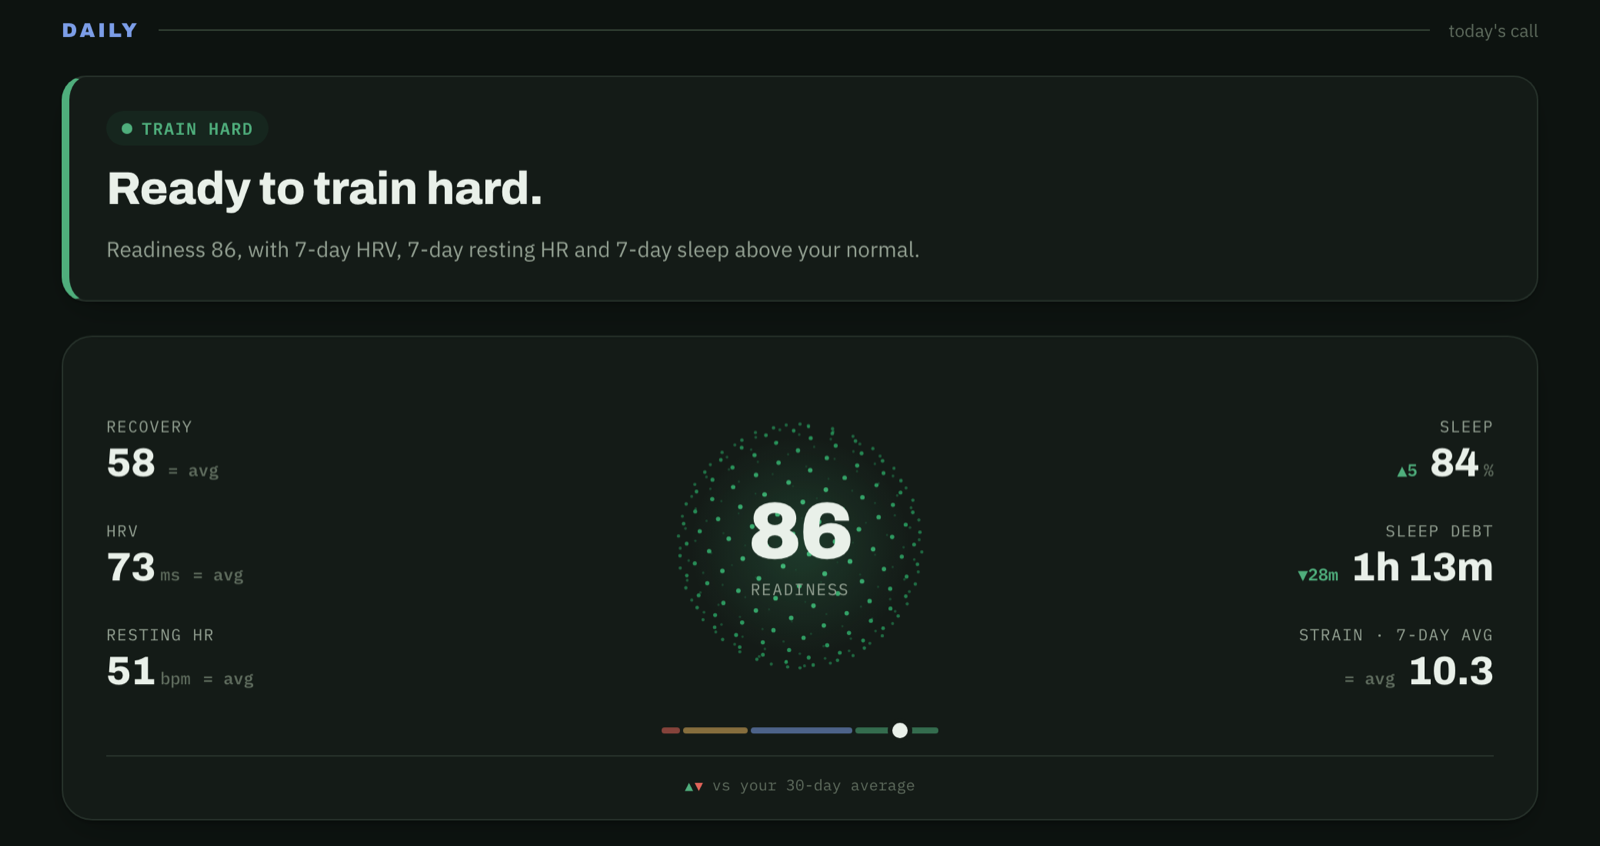
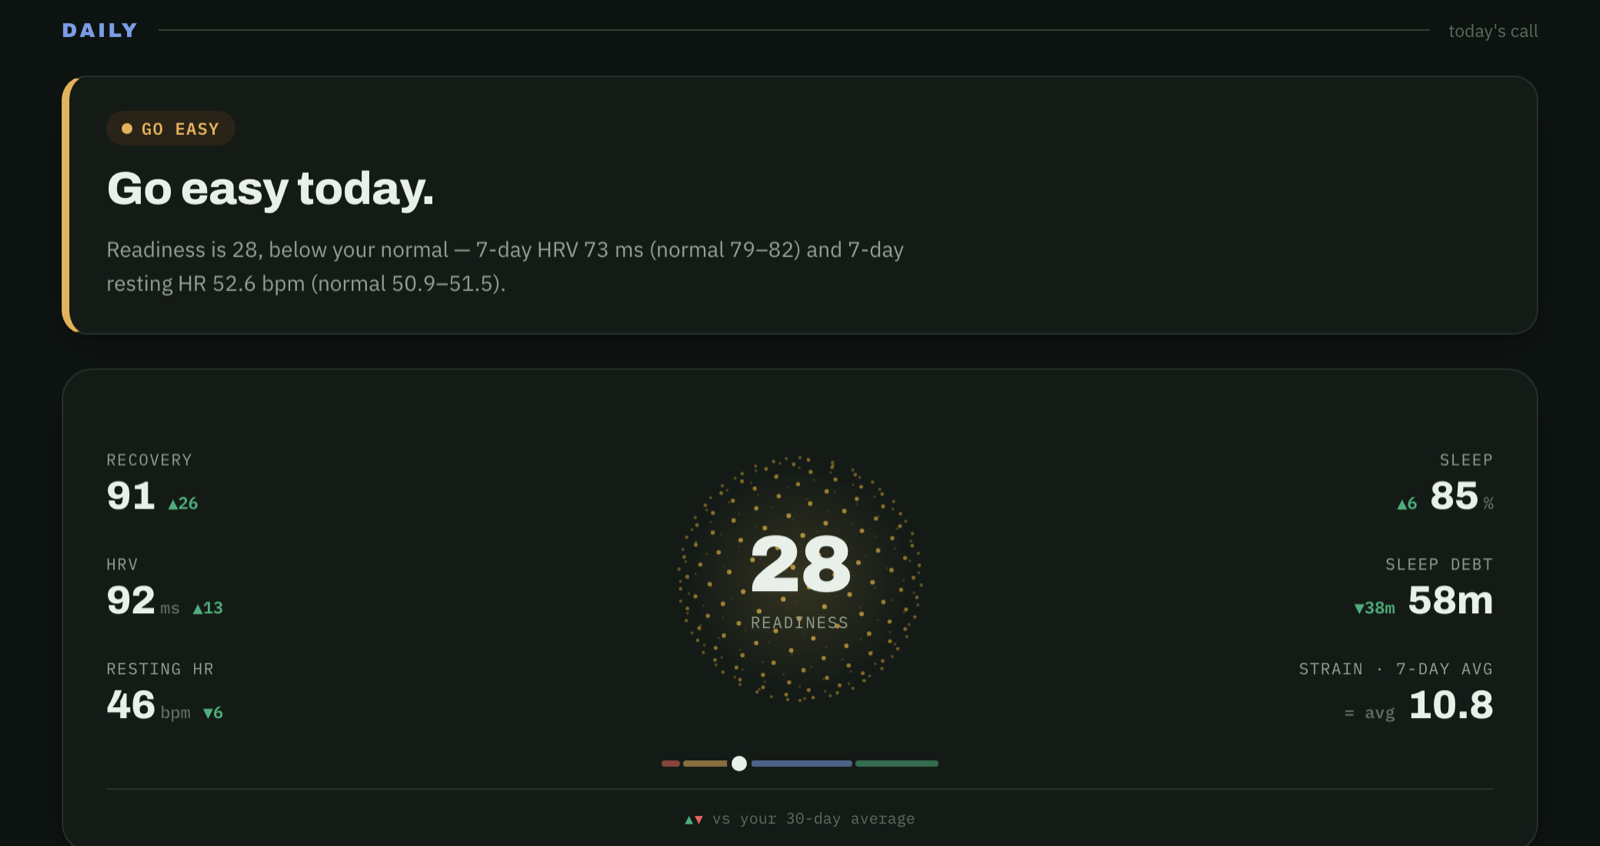
Show readiness after today's training, measured on your own history
After two sessions the orb still showed the morning score, which read as
"just as ready for a third". Readiness is an overnight measurement - a session
can't change this morning's HRV - but it does lower the next one, and that
effect can be measured rather than assumed.

build_training_cost regresses each past day's strain against the next
morning's readiness, holding that day's own readiness constant (least squares,
t-test on the coefficient, p < 0.05, 30+ pairs, as with every comparison here).
On this history: 0.8 readiness points per point of day strain, 521 pairs,
p < 0.001. Once a session is logged the orb shows the morning score minus that
effect for today's strain above a typical rest day (the median rest-day
strain), never a bonus for doing less: 33 this morning, day strain 16.0 -> 24.

The raw next-morning forecast was not used as "readiness now": a low morning
tends to rebound, so it would have risen before any training happened. The
plan still comes from the morning score; the panel shows "After today's
training 24 / 33 this morning, -9"; the caption stays one word.

diff --git a/dashboard_template.html b/dashboard_template.html
@@ -682,7 +682,11 @@ function computeReadiness(){
   // trained, today's plan is spent — the answer stops asking for more (unless it says Rest,
   // which is about your body, not the plan).
   const action = (trained && plan !== 'rest') ? 'done' : plan;
-  return { action, plan, reasons, sessions, trained, load, R };
+  // After training, readiness is shown net of what today's strain costs by tomorrow morning,
+  // measured on your own history (build_training_cost) — the plan still comes from this morning.
+  const T = DATA.training_cost;
+  const cost = (trained && T && T.after != null && T.cost <= -1 && T.date === (snap && snap.date)) ? T : null;
+  return { action, plan, reasons, sessions, trained, load, cost, R };
 }
 
 // One sentence on where today's strain has left the load ratio and how much room is left.
@@ -756,8 +760,10 @@ function decisionWhy(calc){
   // one session a day is the plan; a second session always spends it, whatever its intensity
   const metPlan = calc.sessions.length > 1 ||
     (SESSION_RANK[hardestToday(calc).intensity || 'strength'] || 1) >= PLAN_RANK[calc.plan];
-  return `${done} Today's plan was <b>${ACTIONS[calc.plan].label.toLowerCase()}</b> (${why})` +
-         (metPlan ? ' — that’s done.' : ', so a harder session is still within it if you want one.');
+  const C = calc.cost;
+  const costLine = C ? ` Readiness is now <b>${C.after}</b>, down from ${C.morning}: going by your own history, today's strain of ${C.strain.toFixed(1)} costs about ${Math.abs(C.cost)} points by tomorrow morning.` : '';
+  return `${done} Today's plan was <b>${ACTIONS[calc.plan].label.toLowerCase()}</b>` +
+         (metPlan ? ' — that’s done.' : ` (${why}), so a harder session is still within it if you want one.`) + costLine;
 }
 
 function renderDecision(){
@@ -771,15 +777,16 @@ function renderDecision(){
   $('decisionWhy').innerHTML = decisionWhy(calc);
 
   const R = calc.R;
+  const shown = calc.cost ? calc.cost.after : (R && R.score);
   if(R){
-    countUp($('orbNum'), R.score, v => String(Math.round(v)));
-    $('orbCap').textContent = 'Readiness';
+    countUp($('orbNum'), shown, v => String(Math.round(v)));
+    $('orbCap').textContent = 'Readiness';     // one word; the sentence above says why it moved
     // the whole percentile scale: red under 7 · yellow 7–30 · blue 31–68 · green 69+
     const lo = 0, hi = 100, L = R.lines;
     const widths = [L.rest - lo, L.train - L.rest, L.above - L.train, hi - L.above];
     $('readyScale').querySelectorAll('.rs-seg').forEach((el, i) => { el.style.flex = String(widths[i]); });
     const pos = v => ((clamp(v, lo, hi) - lo) / (hi - lo) * 100) + '%';
-    $('rsMarker').style.left = pos(R.score);
+    $('rsMarker').style.left = pos(shown);
     $('readyScale').hidden = false;
   } else {
     $('orbNum').textContent = '—';
@@ -787,7 +794,9 @@ function renderDecision(){
     $('readyScale').hidden = true;
   }
   // the orb keeps the score's own colour, matching the scale under it, even when today is done
-  drawSphere('orb', {hard:148, moderate:222, easy:42, rest:6, learning:222}[calc.action === 'done' ? calc.plan : calc.action]);
+  const bandOf = v => v >= R.lines.above ? 'hard' : v >= R.lines.train ? 'moderate' : v >= R.lines.rest ? 'easy' : 'rest';
+  const hueKey = calc.cost ? bandOf(shown) : calc.action === 'done' ? calc.plan : calc.action;
+  drawSphere('orb', {hard:148, moderate:222, easy:42, rest:6, learning:222}[hueKey]);
   renderSuggestions(calc);
   window.__readinessCalc = calc;
 }
@@ -1777,7 +1786,8 @@ window.addEventListener('resize', ()=>{ renderExplorer(); renderStageChart(); re
   function render(){
     const calc = window.__readinessCalc; if(!calc) return;
     const R = calc.R, L = DATA.last_night;
-    $('rpScore').textContent = R ? `· ${R.score} · ${ACTIONS[calc.plan].label}` : '· Learning';
+    // the header matches the orb: after training, the after-training number and "Done for today"
+    $('rpScore').textContent = R ? `· ${calc.cost ? calc.cost.after : R.score} · ${ACTIONS[calc.cost ? calc.action : calc.plan].label}` : '· Learning';
     $('rpSub').textContent = 'Where today sits among your own days.';
     const out = [];
     if(!R){
@@ -1814,6 +1824,7 @@ window.addEventListener('resize', ()=>{ renderExplorer(); renderStageChart(); re
       out.push(section('Also checked', 'today / limit'));
       if(R.breathing) out.push(row('Breathing rate', `${one(R.breathing.value)} /min`, `rest at ${one(R.breathing.limit)}+`, R.breathing.flagged ? 'flagged' : ''));
       out.push(row('Hard days in a row', `${R.hard_days_in_a_row}`, `limit ${R.max_hard_days}`, R.hard_days_in_a_row >= R.max_hard_days ? 'flagged' : ''));
+      if(calc.cost) out.push(row('After today’s training', `${calc.cost.after}`, `${calc.cost.morning} this morning, −${Math.abs(calc.cost.cost)}`, 'flagged'));
       if(calc.load) out.push(row('Load ratio · with today', calc.load.ratio.toFixed(2), `go easy above ${calc.load.bands.high}`, calc.load.ratio > calc.load.bands.caution ? 'flagged' : ''));
       out.push(row('Days below your normal', `${R.days_below_normal}`, `rest at ${R.days_low_to_rest}`, R.days_below_normal >= R.days_low_to_rest ? 'flagged' : ''));
       for(const w of calc.sessions)

diff --git a/build_dashboard.py b/build_dashboard.py
@@ -592,6 +592,61 @@ def build_readiness_check(series, recovery_by_day):
     }
 
 
+def _ols(X, y):
+    """Least squares with standard errors (stdlib): returns (coefficients, standard errors, df)."""
+    n, k = len(y), len(X[0])
+    M = [[sum(X[i][a] * X[i][b] for i in range(n)) for b in range(k)] + [1.0 if a == j else 0.0 for j in range(k)]
+         for a in range(k)]
+    for c in range(k):                                   # Gauss-Jordan inverse of X'X
+        piv = max(range(c, k), key=lambda r: abs(M[r][c]))
+        M[c], M[piv] = M[piv], M[c]
+        if abs(M[c][c]) < 1e-12:
+            return None
+        f = M[c][c]
+        M[c] = [v / f for v in M[c]]
+        for r in range(k):
+            if r != c:
+                g = M[r][c]
+                M[r] = [a - g * b for a, b in zip(M[r], M[c])]
+    inv = [row[k:] for row in M]
+    xty = [sum(X[i][a] * y[i] for i in range(n)) for a in range(k)]
+    beta = [sum(inv[a][b] * xty[b] for b in range(k)) for a in range(k)]
+    df = n - k
+    s2 = sum((y[i] - sum(beta[a] * X[i][a] for a in range(k))) ** 2 for i in range(n)) / df
+    return beta, [math.sqrt(s2 * inv[a][a]) for a in range(k)], df
+
+
+# What today's training costs in readiness, measured on the person's own history rather than assumed.
+# Readiness is an overnight measurement, so a session can't change this morning's number - but it does
+# lower the next one. Each past day's day strain is regressed against the next morning's readiness,
+# holding that day's own readiness constant (ordinary least squares; t-test on the coefficient,
+# p < 0.05, 30+ pairs - the same conventions as every other comparison here). Today's cost is that
+# effect applied to the strain above a typical rest day (median day strain on days with no workout),
+# never a bonus for doing less; the page shows it once a session is logged.
+def build_training_cost(readiness_series, strain_by_day, workout_days, today):
+    scores = {p['date']: p['v'] for p in readiness_series}
+    rows = [(1.0, scores[d], strain_by_day[d], scores[_date_minus(d, -1)])
+            for d in scores if d < today and d in strain_by_day and _date_minus(d, -1) in scores]
+    rest = [v for d, v in strain_by_day.items() if d < today and d not in workout_days]
+    if len(rows) < MIN_GROUP or len(rest) < MIN_GROUP or today not in scores or today not in strain_by_day:
+        return None
+    fit = _ols([r[:3] for r in rows], [r[3] for r in rows])
+    if fit is None:
+        return None
+    beta, se, df = fit
+    per_strain = beta[2]
+    t = per_strain / se[2] if se[2] else 0.0
+    p = _betainc(df / 2, 0.5, df / (df + t * t))
+    significant = p < SIGNIFICANCE and per_strain < 0
+    rest_strain = sorted(rest)[len(rest) // 2] if len(rest) % 2 else sum(sorted(rest)[len(rest) // 2 - 1:len(rest) // 2 + 1]) / 2
+    strain = strain_by_day[today]
+    cost = round(min(0.0, per_strain * (strain - rest_strain))) if significant else None
+    morning = scores[today]
+    return {'date': today, 'morning': morning, 'strain': round(strain, 1), 'rest_day_strain': round(rest_strain, 1),
+            'per_strain': round(per_strain, 2), 'p': round(p, 4), 'pairs': len(rows), 'significant': significant,
+            'cost': cost, 'after': None if cost is None else max(1, min(99, morning + cost))}
+
+
 def build_sleep_composition(sleep, now):
     """Weekly average REM/deep(SWS)/light sleep hours, last 8 weeks. Computed here
     (not client-side) so the week key is zero-padded and sorts correctly — the same
@@ -855,6 +910,7 @@ def build_summary(d):
     # 'a' = the answer that day, so the page can show how often each one actually comes up
     full['readiness'] = [{'date': p['date'], 'v': p['v'], 'a': p['answer']} for p in readiness_series]
     readiness_check = build_readiness_check(readiness_series, recovery_by_day)
+    training_cost = build_training_cost(readiness_series, strain_by_day, set(by_day_wo), day(cyc[-1]['created_at']))
     for entry, w in zip(wlog, wo):   # wlog was built in the same order as wo
         entry['intensity'] = None if w['sport_name'] in STRENGTH_SPORTS else session_level(
             intensity_minutes(w['score'].get('zone_durations'), max_hr, rest_hr_for(entry['date'])))
@@ -927,6 +983,7 @@ def build_summary(d):
         'total_workouts': len(wo),
         'acwr': acwr,
         'load_today': load_today,
+        'training_cost': training_cost,
         'monotony': monotony,
         'sport_recovery_cost': sport_recovery_cost,
         'sleep_composition': sleep_composition,

diff --git a/tests/test_intensity_and_load.py b/tests/test_intensity_and_load.py
@@ -198,3 +198,50 @@ class DayAdaptsTest(unittest.TestCase):
         self.assertEqual(after['readiness']['date'], today)
         self.assertNotEqual(after['readiness']['score'], before['readiness']['score'])
         self.assertGreater(after['last_night']['nap_h'], before['last_night']['nap_h'])
+
+
+class TrainingCostTest(unittest.TestCase):
+    """Readiness after today's training: the strain effect measured on the person's own history."""
+
+    def history(self, effect, n=200, seed=5):
+        import random
+        rnd = random.Random(seed)
+        start = date(2026, 1, 1)
+        days = [(start + timedelta(days=i)).isoformat() for i in range(n)]
+        workout_days = {d for i, d in enumerate(days) if i % 3 != 0}          # every third day off
+        strain = {d: (rnd.uniform(11, 18) if d in workout_days else rnd.uniform(3, 7)) for d in days}
+        score = {days[0]: 50.0}
+        for a, b in zip(days, days[1:]):
+            score[b] = max(1, min(99, 20 + 0.6 * score[a] + effect * (strain[a] - 5) + rnd.gauss(0, 6)))
+        series = [{'date': d, 'v': round(score[d])} for d in days]
+        return series, strain, workout_days, days
+
+    def test_measures_the_strain_effect_and_applies_it_to_today(self):
+        series, strain, wd, days = self.history(effect=-1.0)
+        today = days[-1]
+        strain[today] = 16.0
+        out = bd.build_training_cost(series, strain, wd, today)
+        self.assertTrue(out['significant'])
+        self.assertAlmostEqual(out['per_strain'], -1.0, delta=0.25)
+        want = round(out['per_strain'] * (16.0 - out['rest_day_strain']))
+        self.assertEqual(out['cost'], want)
+        self.assertEqual(out['after'], out['morning'] + want)
+
+    def test_no_effect_in_the_history_means_no_adjustment(self):
+        series, strain, wd, days = self.history(effect=0.0, seed=9)
+        out = bd.build_training_cost(series, strain, wd, days[-1])
+        self.assertFalse(out['significant'] and out['cost'])
+        if not out['significant']:
+            self.assertIsNone(out['cost'])
+            self.assertIsNone(out['after'])
+
+    def test_a_quiet_day_is_never_a_bonus(self):
+        series, strain, wd, days = self.history(effect=-1.0)
+        strain[days[-1]] = 2.0                                  # below a typical rest day
+        out = bd.build_training_cost(series, strain, wd, days[-1])
+        self.assertEqual(out['cost'], 0)
+        self.assertEqual(out['after'], out['morning'])
+
+    def test_real_summary_carries_it(self):
+        s = bd.build_summary(generate(120, 23))
+        self.assertIn('training_cost', s)

diff --git a/chat_server.py b/chat_server.py
@@ -91,6 +91,10 @@ day. dashboard_summaries.load_today gives today's ratio and strain_at = the day 
 would cross each band (algebra on the band, not a new threshold). Before any session today the page \
 steps the plan down as it climbs: past 1.3 no hard session (Train hard becomes Train as planned), past \
 1.5 Go easy. After a session it is reported, not used to rewrite the plan.
+- After a session the orb shows readiness after training (dashboard_summaries.training_cost): this \
+morning's score minus what today's strain costs by tomorrow morning, measured on their own history \
+(per_strain = readiness points per point of day strain, holding readiness constant; applied to strain \
+above a typical rest day; only if significant). Readiness itself is an overnight measurement.
 - "Today" is the current WHOOP day (from one sleep to the next, today_snapshot with in_progress), \
 not the calendar date - at 1am before sleeping they are still in the same WHOOP day.
 - Rest day ("last day off" on the page): the most recent finished day with NO workout logged. It is \

diff --git a/README.md b/README.md
@@ -209,6 +209,7 @@ anything, and it is not comparable between people.
 | Illness sign | Breathing rate last night 3+ breaths/min above your usual (average of nights 30–90 days before, 30+ nights) → **Rest** | [Natarajan et al., 2021](https://pmc.ncbi.nlm.nih.gov/articles/PMC8443549/) |
 | Hard days in a row | After 2 moderate/high-intensity days in a row → **Go easy** | Carrasco-Poyatos 2020 |
 | Through the day | Every refresh recomputes the load ratio with today's strain so far. Before a session, the plan steps down as it climbs: past **1.3** no hard session (Train hard → Train as planned), past **1.5** Go easy. The card says how much strain is left before 1.3 ("passes 1.3 if today's strain goes over 14.2") — the day strain that puts the ratio exactly on the line, solved from the same 7- and 28-day averages. A nap changes readiness itself, because hours asleep count naps. "Today" is the current WHOOP day, from one sleep to the next | Load-ratio bands: [Gabbett, 2016](https://bjsm.bmj.com/content/50/5/273) — disputed as an injury predictor: [Impellizzeri et al., 2020](https://pubmed.ncbi.nlm.nih.gov/32502973/) |
+| After training | Readiness is measured overnight, so a session can't change this morning's number — but it lowers the next one. On your own history, each past day's strain is set against the next morning's readiness, holding that day's readiness constant (least squares; used only if the effect is negative and significant, p < 0.05, 30+ pairs). Once you've trained, the orb shows this morning's score minus that cost for today's strain above a typical rest day (median rest-day strain) — never a bonus for doing less. Here: 0.8 points per strain point, 521 pairs; 33 this morning with a 16.0 day → 24 | Own-data measurement, same conventions as every comparison on the page |
 | Session today | The plan is **one session a day** — the trials read HRV each morning and set that day's session. Once you have trained, the card shows **Done for today** and whether what you did matched the plan; recovery takes ~24 h after a low or moderate session and ~48 h after a hard one | Daily prescription: Kiviniemi 2007, Vesterinen 2016, Javaloyes 2019; recovery time: [Stanley, Peake & Buchheit, 2013](https://link.springer.com/article/10.1007/s40279-013-0083-4) |
 
 Last night counts for half the score and the last 7 days for the other half, so a strong night lifts

diff --git a/CLAUDE.md b/CLAUDE.md
@@ -56,7 +56,10 @@ python3 scripts/privacy_scan.py [--staged]          # must be clean before any p
   (`MAX_REST_DAYS_IN_A_ROW`; Manresa-Rocamora 2021 "low intensity or passive rest"; Plews 2013/Buchheit 2014
   sustained not single-day; Kiviniemi 2007 caps consecutive rest days). Rest on breathing +3/min; Go easy after 2 hard days in a row. Once any session is
   logged today the page shows "Done for today" (plan spent) unless the plan was Rest. Before a session, today's
-  live load ratio (`build_load_today`, strain so far) steps the plan down: >1.3 hard→as planned, >1.5 → Go easy. Last night is information only. JP wants ONE score from all
+  live load ratio (`build_load_today`, strain so far) steps the plan down: >1.3 hard→as planned, >1.5 → Go easy.
+  After a session the orb shows readiness net of today's training cost (`build_training_cost`: OLS of next-morning
+  readiness on day strain, holding readiness constant, on the person's own history; significant & negative only;
+  cost = effect × strain above median rest-day strain, never positive). The plan still comes from the morning score. Last night is information only. JP wants ONE score from all
   measures AND every rule sourced — keep both.
 - **Intensity** = Seiler zones (82% / 87% of max HR) converted from WHOOP heart-rate-reserve zones
   (`intensity_minutes`, proportional split); session level = where most time was. Strength sessions: none.
